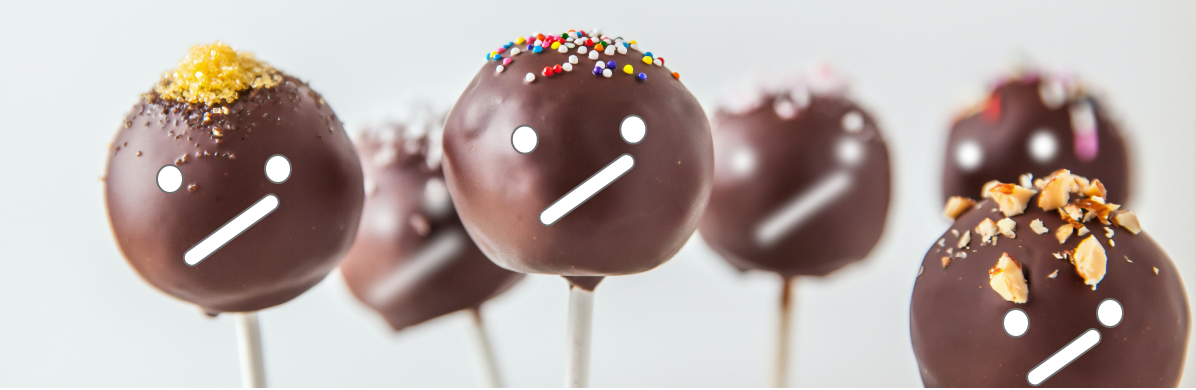
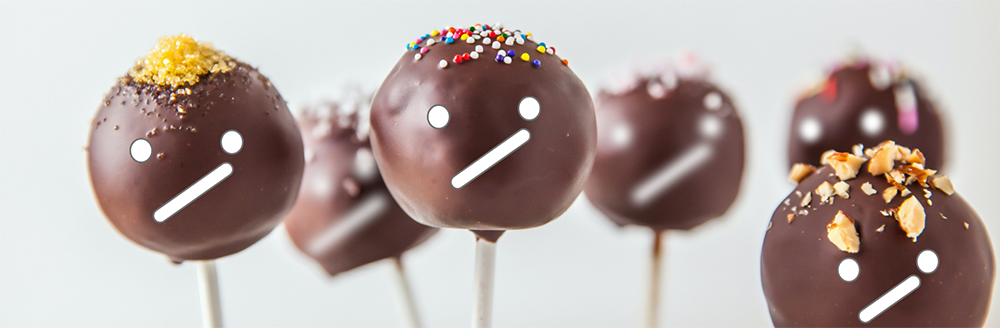
Added responsive images

diff --git a/index.html b/index.html
@@ -17,7 +17,24 @@
 <div class="container">
 <header>
     <div class="logo">
-        <a href="#"><img class="logoimage" src="img/image1_logo.png" alt="Moody Pops Logo, in green and pink. All the ohs have faces in them."></a>
+        <a href="/index.html">
+            <img class="logoimage" 
+            srcset="img/image1_logo-350.png 350w,
+                    img/image1_logo-500.png 500w,
+                    img/image1_logo-750.png 750w,
+                    img/image1_logo-1079.png 1079w,
+                    img/image1_logo1x.png 1x,
+                    img/image1_logo2x.png 2x,
+                    img/image1_logo3x.png 3x"
+                    
+            sizes="(max-width: 350px) 350px,
+                    (max-width: 500px) 500px,
+                    (max-width: 750px) 750px,
+                    (max-width: 1079px) 1079px"
+            src="img/image1_logo.png" 
+            alt="Moody Pops Logo, in green and pink. All the ohs have faces in them."          
+            >
+        </a>
     </div>
     <nav> 
     <input type="checkbox" id="mobilemenu" name="mobilemenu" value="open">
@@ -41,7 +58,22 @@
 <div class="banner">
     <!-- image2_banner fits here  -->
     <h1>A pop for every mood</h1>
-    <img src="img/image2_banner.png" alt="Three dimensional images of eight cake pops in a circle. Each cake pop has a different face.">
+    <img 
+        srcset="img/image2_banner-280.png 280w,
+                img/image2_banner-400.png 400w,    
+                img/image2_banner-600.png 600w,
+                img/image2_banner-863.png 863w,
+                img/image2_banner1x.png 1x,
+                img/image2_banner2x.png 2x,
+                img/image2_banner3x.png 3x"
+
+        sizes="(max-width: 350px) 280px,
+                (max-width: 500px) 400px,
+                (max-width: 750px) 600px,
+                (max-width: 1079px) 863px"
+            
+        src="img/image2_banner1x.png" 
+        alt="Three dimensional images of eight cake pops in a circle. Each cake pop has a different face.">
         
 </div>
 <section class="location">
@@ -50,7 +82,23 @@
         <div class="left-side">
         <!-- image3_open is from: https://www.pexels.com/photo/ethnic-female-cafe-ownershowing-
 welcome-we-are-open-inscription-4473398/-->
-            <img src="img/image3_open.jpg" alt="a woman entrepreneur holding a sign that says 'Welcome, we are open'.">
+            
+<img 
+            srcset="img/image3_open-333.jpg 333w,
+            img/image3_open-500.jpg 500w,
+            img/image3_open-750.jpg 750w,
+            img/image3_open-1079.png 1079w,
+            img/image3_open1x.jpg 1x,
+            img/image3_open2x.jpg 2x,
+            img/image3_open3x.jpg 3x"
+            
+            sizes="(max-width: 333px) 333px,
+            (max-width: 500px) 500px,
+            (max-width: 750px) 750px,
+            (max-width:1079px) 1079px"
+
+            src="img/image3_open.jpg" 
+            alt="a woman entrepreneur holding a sign that says 'Welcome, we are open'.">
         </div>
         <div class="right-side">
         <iframe src="https://www.google.com/maps/embed?pb=!1m18!1m12!1m3!1d1400.2632188022833!2d-75.69217034127806!3d45.4188883!2m3!1f0!2f0!3f0!3m2!1i1024!2i768!4f13.1!3m3!1m2!1s0x4cce05a97cef7411%3A0xcfe6e1300cb275d2!2s231%20Elgin%20St%2C%20Ottawa%2C%20ON%20K2P%201L6!5e0!3m2!1sen!2sca!4v1646577694980!5m2!1sen!2sca"  style="border:0;" allowfullscreen="" loading="lazy"></iframe>
@@ -66,7 +114,22 @@ welcome-we-are-open-inscription-4473398/-->
         </div>
         <div class="right-side imgcover">
             <!-- image4_perturbed is modified in XD and is based on: https://unsplash.com/photos/TZFshUFzWRQ-->
-            <img src="img/image4_perturbed.png" alt="Six cake pops, all with faces painted on them. Three in the background are out of focus.">
+
+            <img 
+            srcset="img/image4_perturbed-333.jpg 333w,
+                    img/image4_perturbed-500.jpg 500w,
+                    img/image4_perturbed-750.jpg 750w,  
+                    img/image3_open-1079.png 1079w,
+                    img/image4_perturbed1x.png 1x,
+                    img/image4_perturbed2x.png 2x,
+                    img/image4_perturbed3x.png 3x
+                    "
+            sizes="(max-width: 333px) 333px,
+                    (max-width:500px) 500px,
+                    (max-width:750px) 750px,
+                    (max-width:1079px) 1079px"
+            src="img/image4_perturbed.png" 
+            alt="Six cake pops, all with faces painted on them. Three in the background are out of focus.">
         </div>
         
     </div>

diff --git a/styles/style.css b/styles/style.css
@@ -119,23 +119,35 @@ header img {
 	width: 100%;
 }
 
+.logo a {
+	display:flex;
+	flex-direction: column;
+	justify-content: flex-end;
+}
+
 
 nav input {
 	display:none;
 }
 
-nav label {
+.mobilemenu {
 	cursor: pointer;
 	color:#fff;
-	border: 1px #C62A70 solid;
-	box-shadow: 0 3px 6px #00000016;
-	border-radius: 19px;
 	height: 64px;
 	display:flex;
 	flex-direction: column;
 	justify-content: center;
 	text-align: center;
 	text-decoration: none;
+	border: 1px #C62A70 solid;
+	
+	
+}
+
+.mobilemenu:hover {
+	background-color: white;
+	color:#C62A70;
+	border: 1px #C62A70 solid;
 }
 
 nav ul {
@@ -166,7 +178,7 @@ nav ul li {
 	
 }
 
-.button:hover, .onpage1  {
+.button:hover, .onpage1 {
 	color:white;
 	background-color: #C62A70;
 }
@@ -252,7 +264,10 @@ section .reverseorder {
 	text-decoration: none;
 	color:#000;
 	margin-bottom: 20px;
+}
 
+.buttonblue:hover {
+	background-color: #A3E66C;
 }
 
 /* ~~~~~~~~~~~~~~~~~~~~~~~~~~~~~~~~~~~~~~~~~~~~~~~~~~~~~~~~~~~~~~~~
@@ -340,7 +355,7 @@ footer {
 
 
 	~~~~~~~~~~~~~~~~~~~~~~~~~~~~~~~~~~~~~~~~~~~~~~~~~~~~~~~~~~~~~~~~~ */
-	nav label {
+	.mobilemenu {
 		display:none;
 	}
 
